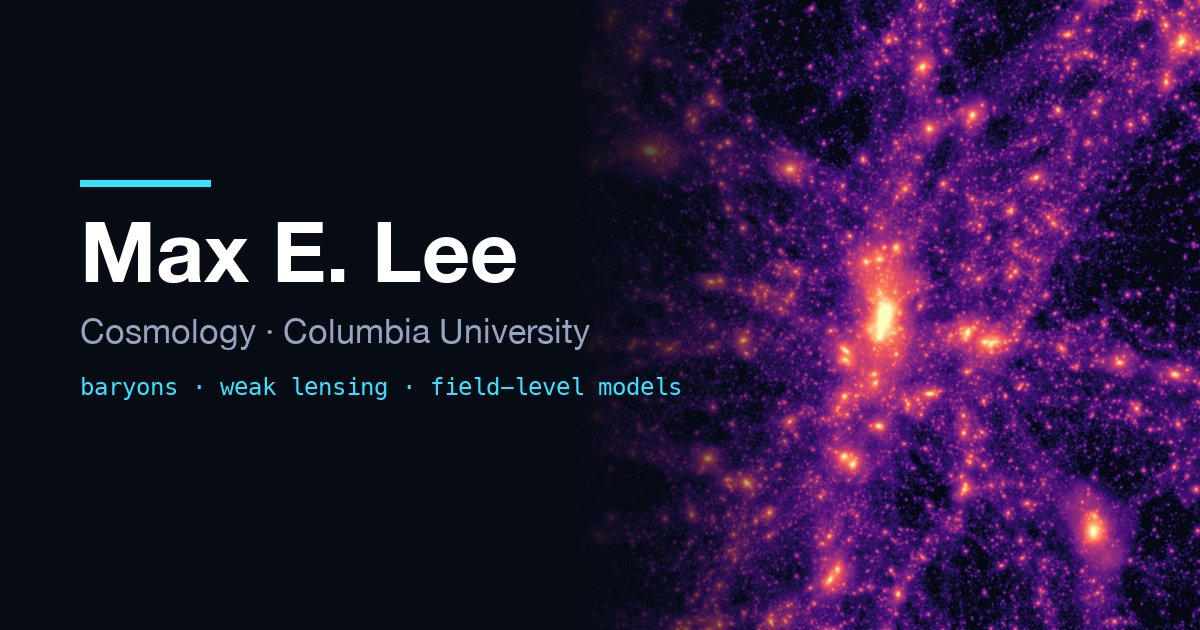
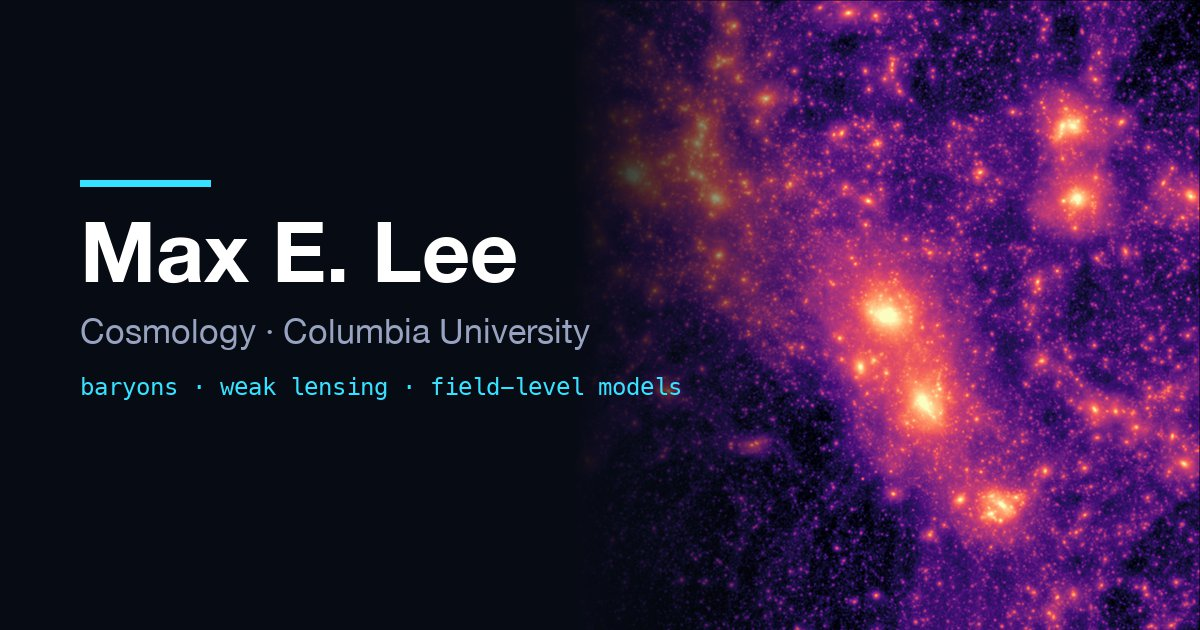
Integrate the Popeye drop: real lightcone trio + crisp assets
The homepage banner now cycles the genuine ray-traced kappa / tau /
Compton-y maps (one realization, z_s = 2.44, from the released
lightcone suite) - the full y map with diffuse structure replaces the
pulled bubble substitute, and the 3-layer 18s CSS cycle is restored.

Also from ~/Downloads/website2: the 2.5-degree y-crop becomes the
lightcone paper teaser; crisper TNG300-native teaser-methods and
teaser-bmr; og card rebuilt from the new og-field; and the /bind/
generation loop rebuilt from the five crisp 800px trajectory states
(crossfaded at 70ms) instead of the soft 128px npz render.

diff --git a/_includes/home/hero.html b/_includes/home/hero.html
@@ -19,7 +19,7 @@
         <a class="btn" href="mailto:{{ site.author.email }}">Email</a>
       </div>
     </div>
-    <div class="lc-banner" role="img" aria-label="Rotating BIND-generated sky maps: weak-lensing convergence and optical depth">
+    <div class="lc-banner" role="img" aria-label="Rotating BIND ray-traced sky maps: weak-lensing convergence, optical depth, and Compton-y">
       <div class="lc-banner__layer">
         <img src="/images/lightcone/banner-kappa.webp" alt="" width="1600" height="500">
         <span class="lc-banner__tag">convergence &kappa;</span>
@@ -28,7 +28,11 @@
         <img src="/images/lightcone/banner-tau.webp" alt="" width="1600" height="500">
         <span class="lc-banner__tag">optical depth &tau;</span>
       </div>
+      <div class="lc-banner__layer">
+        <img src="/images/lightcone/banner-y.webp" alt="" width="1600" height="500">
+        <span class="lc-banner__tag">Compton-y</span>
+      </div>
     </div>
-    <p class="hero__visual-caption">the observables BIND generates &middot; weak lensing &amp; SZ maps across the IllustrisTNG prior</p>
+    <p class="hero__visual-caption">BIND ray-traced observables &middot; one realization of the lightcone suite &middot; weak lensing &amp; SZ across the IllustrisTNG prior</p>
   </div>
 </section>

diff --git a/_sass/cosmic/_hero.scss b/_sass/cosmic/_hero.scss
@@ -85,11 +85,9 @@
   margin-bottom: 1.75rem;
 }
 
-// Rotating lightcone banner: stacked map layers crossfading on a
-// pure-CSS cycle (6 s per observable, 0.7 s fades). Currently two layers
-// (kappa, tau) on a 12 s cycle; when the real Popeye Compton-y map lands
-// it becomes three layers — set the cycle to 18 s, delays 0/6/12, and
-// keyframe hold to 33.3%/38%.
+// Rotating lightcone banner: three stacked map layers (kappa, tau, y —
+// the real ray-traced trio, one realization) crossfading on a pure-CSS
+// 18 s cycle: 6 s per observable, ~0.7 s fades.
 .lc-banner {
   position: relative;
   margin-top: 2.75rem;
@@ -111,7 +109,7 @@
   position: absolute;
   inset: 0;
   opacity: 0;
-  animation: lc-cycle 12s linear infinite;
+  animation: lc-cycle 18s linear infinite;
 
   img {
     width: 100%;
@@ -122,6 +120,10 @@
   &:nth-child(2) {
     animation-delay: 6s;
   }
+
+  &:nth-child(3) {
+    animation-delay: 12s;
+  }
 }
 
 @keyframes lc-cycle {
@@ -129,15 +131,15 @@
     opacity: 0;
   }
 
-  6% {
+  4% {
     opacity: 1;
   }
 
-  50% {
+  33.3% {
     opacity: 1;
   }
 
-  56% {
+  38% {
     opacity: 0;
   }
 

diff --git a/VISUALS.md b/VISUALS.md
@@ -16,26 +16,27 @@ filename → drop in, done).
 > the front page). **Remaining: brief #7 below**, which now serves the
 > /bind/ generation loop and banner upgrades.
 
-### 7. Animation frames + real lightcone bands — highest value remaining
+### 7. Animation frames — optional polish remaining
 
-- `lightcone-{tau,y}.png` from the REAL Popeye lightcone maps (per brief
-  #3). **The y substitute was pulled from the homepage banner**: the
-  box-pasted per-halo version (≥10¹³ patches on an empty field) reads as
-  scattered bubbles, not the full integrated y sky. The banner currently
-  cycles κ → τ only; a real y map — full map, diffuse structure included,
-  same 5° style as the κ cache render — becomes the third band the moment
-  it lands (1500×1500, magma, log stretch). A real lightcone τ replaces
-  the gas-web stand-in at the same time.
-- `anim-fm-###.png` — every state of the cached flow-matching trajectory
-  (CV sim_0 halo 2, the 20-Euler-step run used for trajectory-a/b/c; more
-  steps even better), gas channel, 1000×1000, SAME pipeline as the
-  trajectory stills. Replaces the still-soft /bind/ generation loop
-  (currently 128² npz).
+**Popeye drop (~/Downloads/website2) integrated:** the real ray-traced
+lightcone trio (κ / τ / y, one realization, z_s = 2.44) now powers the
+three-band homepage banner; the y-crop is the lightcone paper teaser;
+the crisper teaser-methods / teaser-bmr are live; og card rebuilt from
+the new og-field; the /bind/ generation loop is rebuilt from the
+extra-trajectory5 states (5 crisp 800² keyframes, crossfaded — much
+sharper than the old 128² npz loop). Unused riches (feedback groups,
+seeds, sevenfields strip, web input-vs-output pairs, hero alts) remain
+in ~/Downloads/website2 for future sections.
+
+Still worthwhile, none urgent:
+
+- `anim-fm-###.png` — ALL ~50 Euler states of a trajectory (not just 5),
+  1000², same pipeline: makes the /bind/ loop physically continuous
+  instead of crossfaded between 5 keyframes.
 - `anim-sweep-<PARAM>-##.png` — 16–24 prior values per parameter at
-  900×900 (same conventions as the ASN1/AAGN1 set) to make the /bind/
-  dials smoother; further parameters become additional dials.
-- Optional: `anim-ensemble-##.png` — ~24 posterior draws of one halo
-  (the extra-ensemble cluster), for a "posterior flipbook" loop.
+  900×900 (ASN1/AAGN1 conventions) for smoother dials.
+- Optional: `anim-ensemble-##.png` — ~24 draws of one halo for a
+  posterior flipbook.
 
 **Global spec, applies to every asset:**
 

diff --git a/_pages/bind.md b/_pages/bind.md
@@ -9,8 +9,8 @@ teaser: /images/bind/gas-web.webp
 ---
 
 <figure class="bind-hero">
-<img src="/images/bind/fm-gas.webp" alt="Animation of flow matching: a gas field emerging from pure noise into a cluster-mass halo" width="512" height="512">
-<figcaption>Watch the generation itself: BIND integrates a learned velocity field from pure noise (t&thinsp;=&thinsp;0) to the finished gas field (t&thinsp;=&thinsp;1) of a 10¹⁴ M⊙ halo — about a second of GPU time.</figcaption>
+<img src="/images/bind/fm-gas.webp" alt="Animation of flow matching: a gas field emerging from pure noise into a cluster-mass halo" width="560" height="560">
+<figcaption>Watch the generation itself: BIND integrates a learned velocity field from pure noise (t&thinsp;=&thinsp;0) to the finished gas field (t&thinsp;=&thinsp;1) of a cluster-mass halo — about a second of GPU time.</figcaption>
 </figure>
 
 **BIND** (Baryonic INpainting with Deep learning) is a conditional flow-matching model trained on the 1024 paired hydrodynamical and dark-matter-only simulations of the CAMELS SB35 suite. Given a dark-matter-only halo, it generates the corresponding dark matter, gas, and stellar mass fields — conditioned on the full 35-dimensional ΛCDM and IllustrisTNG galaxy formation parameter space.
